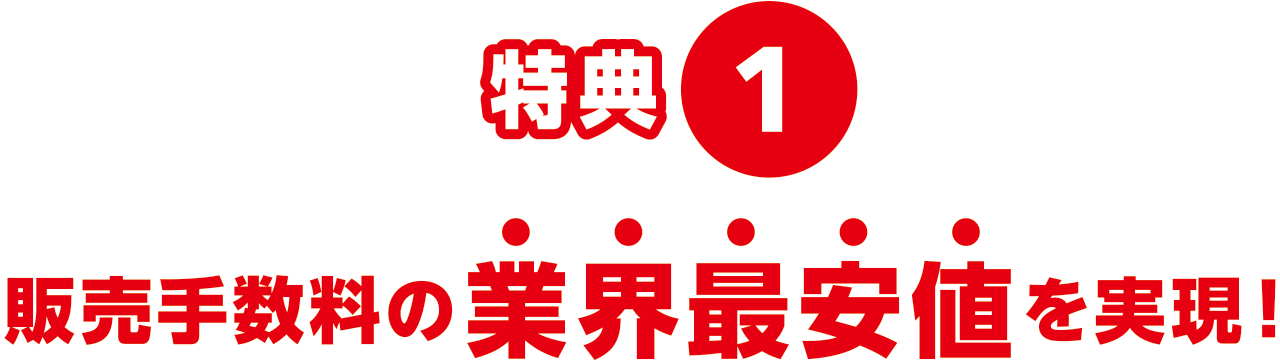
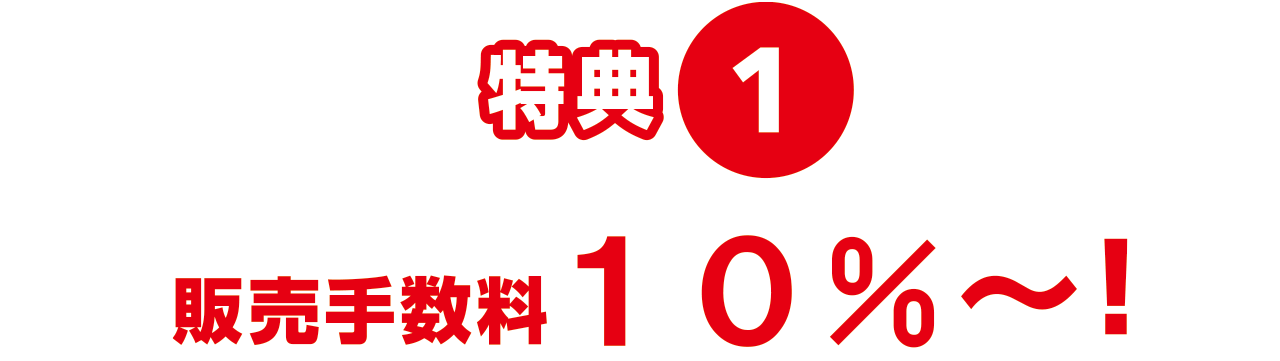
文言など修正

diff --git a/app/Customize/Controller/CustomContactController.php b/app/Customize/Controller/CustomContactController.php
@@ -44,7 +44,7 @@ class CustomContactController extends ContactController
     /**
      * お問い合わせ画面.
      *
-     * @Route("/ec/contact", name="contact")
+     * @Route("/ec/contact", name="ec_contact")
      * @Template("Contact/index.twig")
      */
     public function index(Request $request)
@@ -110,7 +110,7 @@ class CustomContactController extends ContactController
                     // メール送信
                     $this->mailService->sendContactMail($data);
 
-                    return $this->redirect($this->generateUrl('contact_complete'));
+                    return $this->redirect($this->generateUrl('ec_contact_complete'));
             }
         }
 
@@ -122,7 +122,7 @@ class CustomContactController extends ContactController
     /**
      * お問い合わせ完了画面.
      *
-     * @Route("/ec/contact/complete", name="contact_complete")
+     * @Route("/ec/contact/complete", name="ec_contact_complete")
      * @Template("Contact/complete.twig")
      */
     public function complete()
